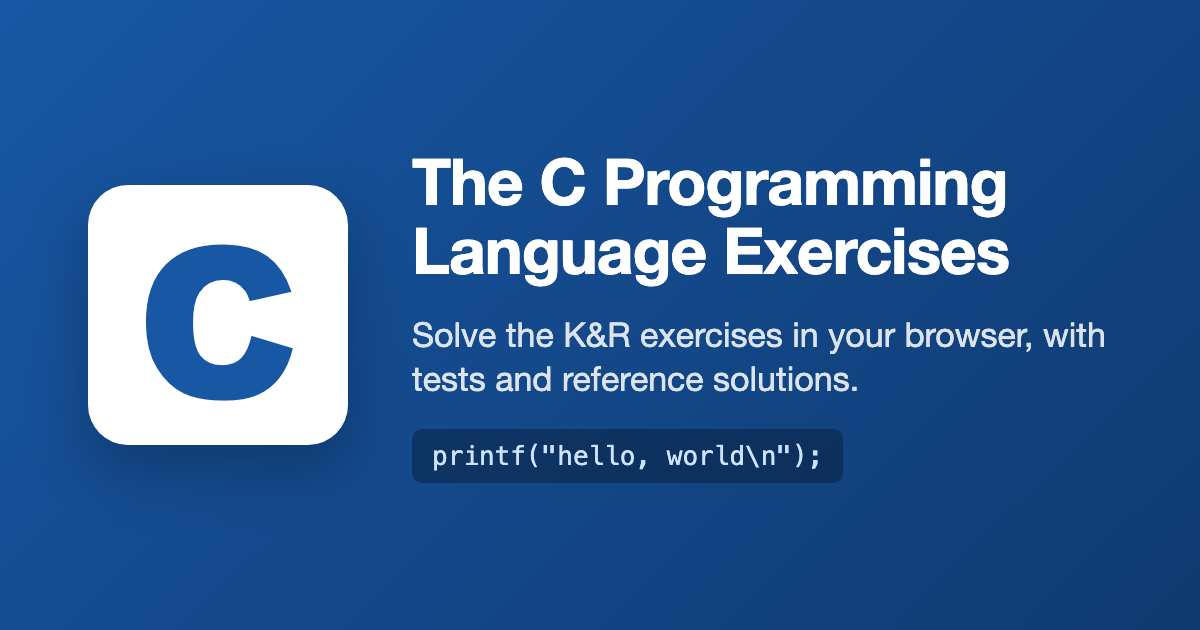
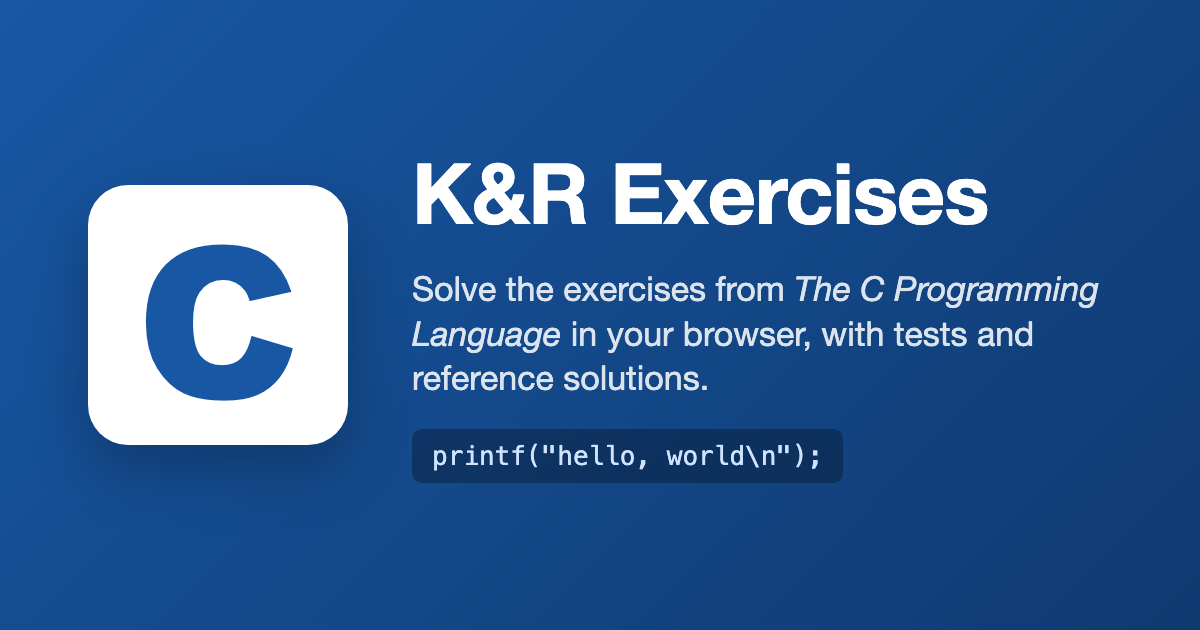
Rename tcpl-exercises to K&R Exercises on kandrexercises.com
- Site name "K&R Exercises" in the header, titles, og:site_name and the
  link preview image (re-rendered). The short "TCPLE" header title for
  phones is gone: the new name fits.
- Home page title "The C Programming Language exercises | K&R
  Exercises", keeping the book's name for search. Exercise titles drop
  their "K&R" prefix, since the site name now carries it.
- SITE_URL (canonical links, sitemap) is https://kandrexercises.com.
- Firebase authDomain is kandrexercises.com: firebaseAuthProxy serves
  the sign-in helpers from the site's own domain.

The Nx project, folder and Firebase ids keep the tcpl-exercises name.

Changed region(s): [[0.3392, 0.2413, 0.925, 0.4825], [0.3392, 0.5127, 0.925, 0.6333]]

diff --git a/apps/tcpl-exercises/src/index.html b/apps/tcpl-exercises/src/index.html
@@ -2,21 +2,18 @@
 <html lang="en">
   <head>
     <meta charset="utf-8" />
-    <title>The C Programming Language Exercises</title>
+    <title>K&amp;R Exercises</title>
     <base href="/" />
     <meta name="viewport" content="width=device-width, initial-scale=1" />
     <!-- Per-page title, description and canonical URL come from SeoService. -->
     <meta property="og:type" content="website" />
-    <meta
-      property="og:site_name"
-      content="The C Programming Language Exercises"
-    />
+    <meta property="og:site_name" content="K&amp;R Exercises" />
     <!-- og:image itself needs an absolute URL, so SeoService adds it. -->
     <meta property="og:image:width" content="1200" />
     <meta property="og:image:height" content="630" />
     <meta
       property="og:image:alt"
-      content="The C Programming Language Exercises: solve the K&amp;R exercises in your browser."
+      content="K&amp;R Exercises: solve the exercises from The C Programming Language in your browser."
     />
     <!-- X reads og:title, og:description and og:image too. -->
     <meta name="twitter:card" content="summary_large_image" />

diff --git a/apps/tcpl-exercises/og-image/og-image.html b/apps/tcpl-exercises/og-image/og-image.html
@@ -53,7 +53,7 @@
         gap: 28px;
       }
       h1 {
-        font-size: 64px;
+        font-size: 84px;
         font-weight: 800;
         line-height: 1.08;
         letter-spacing: -1px;
@@ -78,10 +78,10 @@
   <body>
     <div class="logo">C</div>
     <div class="text">
-      <h1>The C Programming Language Exercises</h1>
+      <h1>K&amp;R Exercises</h1>
       <p>
-        Solve the K&amp;R exercises in your browser, with tests and reference
-        solutions.
+        Solve the exercises from <em>The C Programming Language</em> in your
+        browser, with tests and reference solutions.
       </p>
       <code>printf("hello, world\n");</code>
     </div>

diff --git a/apps/tcpl-exercises/src/environments/environment.prod.ts b/apps/tcpl-exercises/src/environments/environment.prod.ts
@@ -4,7 +4,8 @@ export const environment = {
   name: 'prod',
   firebaseConfig: {
     apiKey: 'AIzaSyD5ufzwDAEktLVKjhS_BYdk4xQ7Uwf3Mt4',
-    authDomain: 'tcpl-exercises--tcpl-exercises-prod.us-east4.hosted.app',
+    // The site's own domain: firebaseAuthProxy serves the sign-in helpers there.
+    authDomain: 'kandrexercises.com',
     projectId: 'tcpl-exercises-prod',
     storageBucket: 'tcpl-exercises-prod.firebasestorage.app',
     messagingSenderId: '153344388097',

diff --git a/apps/tcpl-exercises/src/app/app.html b/apps/tcpl-exercises/src/app/app.html
@@ -26,13 +26,8 @@
       </button>
     }
 
-    <a
-      routerLink="/"
-      class="title"
-      aria-label="The C Programming Language Exercises"
-    >
-      <strong class="full">The C Programming Language Exercises</strong>
-      <strong class="short">TCPLE</strong>
+    <a routerLink="/" class="title" aria-label="K&R Exercises">
+      <strong>K&R Exercises</strong>
     </a>
 
     <span class="icons">

diff --git a/apps/tcpl-exercises/src/app/app.scss b/apps/tcpl-exercises/src/app/app.scss
@@ -1,5 +1,3 @@
-@use 'breakpoints' as bp;
-
 nz-layout {
   height: 100dvh;
 }
@@ -27,20 +25,6 @@ nz-header {
     left: 50%;
     transform: translateX(-50%);
     white-space: nowrap;
-  }
-
-  .title .short {
-    display: none;
-  }
-
-  @include bp.mobile {
-    .title .full {
-      display: none;
-    }
-
-    .title .short {
-      display: inline;
-    }
   }
 
   .icons {

diff --git a/apps/tcpl-exercises/src/app/pages/home/home.ts b/apps/tcpl-exercises/src/app/pages/home/home.ts
@@ -19,7 +19,7 @@ export class Home implements OnInit {
 
   constructor() {
     inject(SeoService).setPage(
-      null,
+      'The C Programming Language exercises',
       'Work through the exercises from Kernighan and Ritchie’s The C Programming Language (K&R) in your browser. Write C, run it against tests, and compare with a reference solution.',
       '/',
     );

diff --git a/apps/tcpl-exercises/src/app/services/seo-service.ts b/apps/tcpl-exercises/src/app/services/seo-service.ts
@@ -9,7 +9,7 @@ import {
 import { Meta, Title } from '@angular/platform-browser';
 import type { SiteUrlRequestContext } from '../../shared/site-url';
 
-export const SITE_NAME = 'The C Programming Language Exercises';
+export const SITE_NAME = 'K&R Exercises';
 
 const SITE_URL_KEY = makeStateKey<string>('siteUrl');
 

diff --git a/apps/tcpl-exercises/src/app/pages/exercise-detail/exercise-detail.ts b/apps/tcpl-exercises/src/app/pages/exercise-detail/exercise-detail.ts
@@ -100,7 +100,7 @@ export class ExerciseDetail {
 
       if (this.exerciseFound() && exercise) {
         seo.setPage(
-          `K&R ${this.exerciseHeading(exercise)}`,
+          this.exerciseHeading(exercise),
           exercise.summary,
           `/exercises/${exercise.id}`,
         );

diff --git a/apps/tcpl-exercises/src/app/app.spec.ts b/apps/tcpl-exercises/src/app/app.spec.ts
@@ -38,7 +38,7 @@ describe('App', () => {
     const root = await render({ status: 'signedOut', user: null });
 
     expect(root.querySelector('strong')?.textContent).toContain(
-      'The C Programming Language Exercises',
+      'K&R Exercises',
     );
   });
 

diff --git a/README.md b/README.md
@@ -11,7 +11,7 @@ An [Nx](https://nx.dev) monorepo containing Angular apps and shared libraries.
 | weight-tracker     | prod        | [weight-tracker--weight-tracker-2592f.us-east4.hosted.app](https://weight-tracker--weight-tracker-2592f.us-east4.hosted.app)               |
 | chinese-flashcards | prod        | [chinese-flashcards--chineseflashcards-4aea7.us-east4.hosted.app](https://chinese-flashcards--chineseflashcards-4aea7.us-east4.hosted.app) |
 | tcpl-exercises     | dev         | [tcpl-exercises--tcpl-exercises-dev.us-east4.hosted.app](https://tcpl-exercises--tcpl-exercises-dev.us-east4.hosted.app)                   |
-| tcpl-exercises     | prod        | [tcpl-exercises--tcpl-exercises-prod.us-east4.hosted.app](https://tcpl-exercises--tcpl-exercises-prod.us-east4.hosted.app)                 |
+| tcpl-exercises     | prod        | [kandrexercises.com](https://kandrexercises.com)                                                                                           |
 
 ## Generate a new app
 
